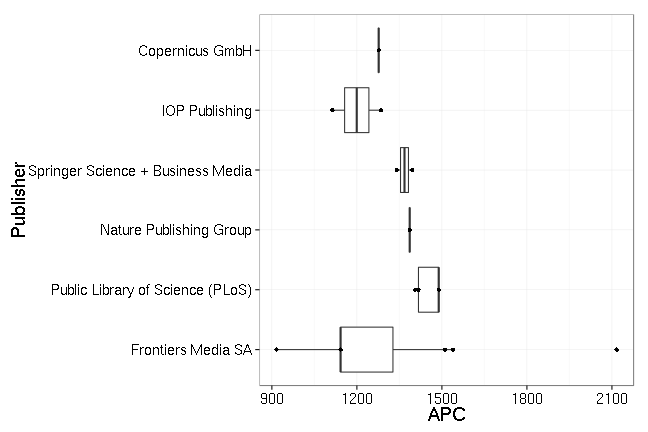
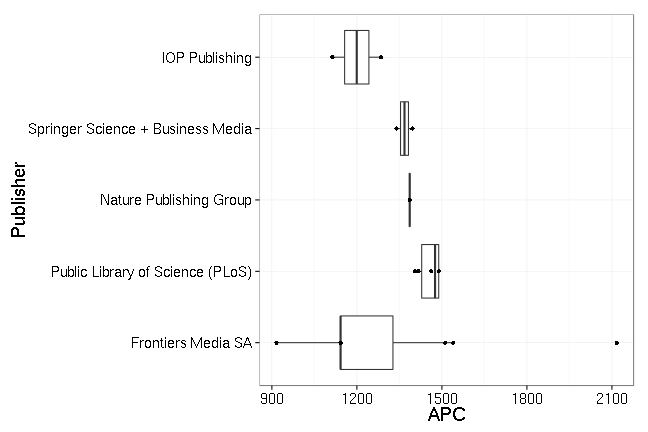
post for potsdam u updated

diff --git a/_posts/2016-04-12-potsdam.md b/_posts/2016-04-12-potsdam.md
@@ -23,7 +23,7 @@ The initial dataset contributed by University of Potsdam contains information on
 
 
 
-The dataset covers publication fees for 24 articles. Total expenditure amounts to 31 942€ and the average fee is 1 331€.
+The dataset covers publication fees for 24 articles. Total expenditure amounts to 32 128€ and the average fee is 1 339€.
 
 The following table shows the payments [University of Potsdam](https://www.uni-potsdam.de/en/) has made to publishers (including taxes and discounts).
 
@@ -31,11 +31,10 @@ The following table shows the payments [University of Potsdam](https://www.uni-p
 |                                  | Articles| Fees paid in EURO| Mean Fee paid|
 |:---------------------------------|--------:|-----------------:|-------------:|
 |Frontiers Media SA                |       11|             14082|          1280|
-|Public Library of Science (PLoS)  |        5|              7289|          1458|
+|Public Library of Science (PLoS)  |        6|              8752|          1459|
 |Nature Publishing Group           |        3|              4159|          1386|
 |Springer Science + Business Media |        2|              2736|          1368|
 |IOP Publishing                    |        2|              2399|          1200|
-|Copernicus GmbH                   |        1|              1277|          1277|
 
 ### Fees paid per publisher (in EURO)
 
